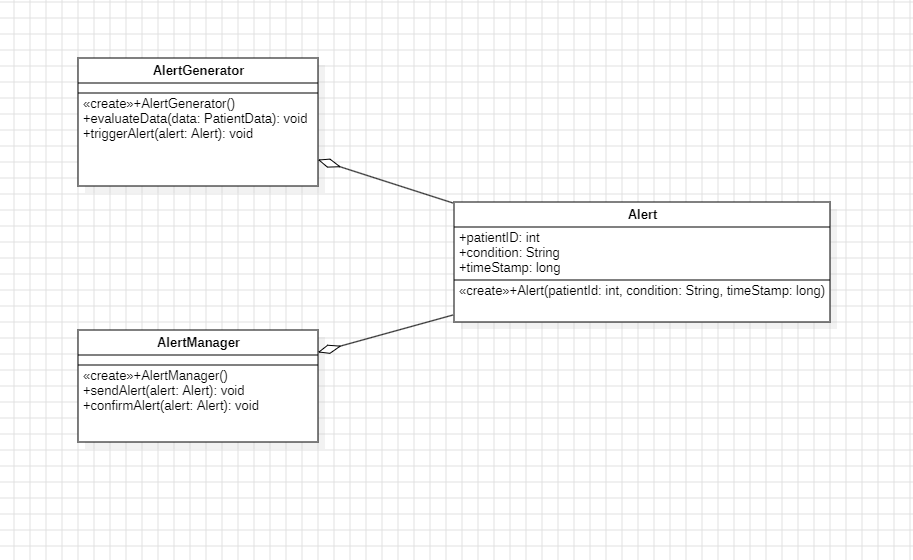
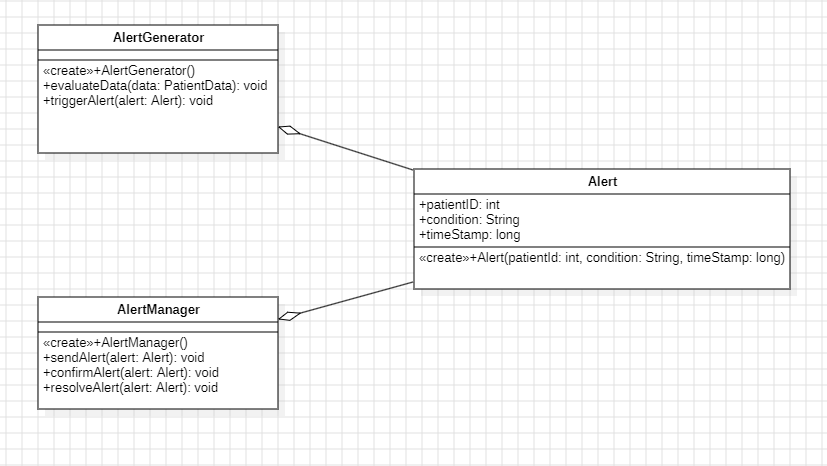
UML Class descriptions added into descriptions.md

diff --git a/uml_models/description.md b/uml_models/description.md
@@ -4,25 +4,25 @@
 
 ![Alert Class Diagram](AlertGeneratorSystem.png)
 
-placeholder
+The Alert Generator Class Diagram shows the process of monitoring patient data and creating alerts based on the data read. The process begins with the AlertGenerator class constantly receiving data from the devices being used (heart rate, blood pressure, etc.) and then evaluating if the data meets a critical threshold. Each threshold is personalized for each patient based on their past trends of data. A patient can have a critical threshold for a BPM > 130 but another can have a different threshold for BPM. If the threshold is met, the Alert Generator triggers an alert by instantiating an Alert object that has the patient's ID, condition, and time of the alert. The alert is then passed to the AlertManager class for further processing and updating. The AlertManager class sends the alert to the medical staff that need to deal with that given alert. The medical staff can then confirm the receiving of the alert, or the alert automatically resolves if the value(BPM, BP, etc.) goes back below the threshold. The AlertManager class also keeps track of the alerts that have been sent and the ones that have been resolved. 
 
 ### Data Storage Class Diagram
 
 ![Data Storage Class Diagram](DataStorageSystem.png)
 
-placeholder
+The Data Storage Class Diagram shows the process of storing patient, retrieving, and managing patient data in the system. The process starts with the putting data for a patient into a PatientData object. This object takes in a patient's ID, all their metrics like heart rate, blood pressure, respiratory rate, oxygen saturation, etc., and the time the data was read and taken. Using the PatientData object, the DataStorage class can store the data in a database. The DataStorage class can be used to delete data as well given a patient ID. The storing of the data also needs the patient ID. All the data is stored in a Hash Map for easy access with each key corresponding to a time stamp of the patient's data. To retrieve the data based on certain parameters, the DataRetriever class can be used. The DataRetriever class can retrieve data based on the patient's ID, the time the data was taken(time A to time B), the type of data(heart rate, blood pressure,etc.), and the range of data(BPM A to BPM B). There is a security system in place to ensure that only authorized personnel can access the data. If that check is not passed, the data cannot be retrieved. This ensures only those that have authorization can access this confidential data.
 
 ### Patient Identifier Class Diagram
 
 ![Patient Identifier Class Diagram](PatientIdentifierSystem.png)
 
-placeholder
+The Patient Identifier Class Diagram shows the method of identifying patients within the system and grabbing their given records. It starts with creating a PatientRecord object that stores all the patient's information like their full name, the hospital patient ID, date of birth, and their medical history. The medical history is stored in a map with each key representing the data type and value being the value of the data type. The Patient Record can be retrieved using the PatientIdentifier class. All that is needed to retrieve the record is the patient's ID. If there is a conflict in the records, the IdentityManager class is used to fix the issues. For example, if two patients have the same ID, it will be resolved within the class. The IdentityManager class can also merge different hospital records in case of the patient going to different hospitals. Once all this is done, the patient's record is updated and stored in the system. This system ensures that all patient records are up to date and accurate and that there are no conflicts or issues within the records that may affect any data.
 
 ### Data Listener Class Diagram
 
 ![Data Listener Class Diagram](DataListenerSystem.png)
 
-placeholder
+The Data Listener Class Diagram shows the process of interpretting the data from different devices into readable and understandable numbers and information. The process starts from each of the listeners pointing at the DataListener interface. Each listener uses a start and stop time as timeframes to store in certain time stamps. This keeps the data organized by time and can be grouped together easily. The TCPDataListener reads data from a port and sends it to DataParser class to interpret the data into usable information. The WebSocketDataListener reads data from a specific web URL and sends it to the DataParser class to interpret the data into usable information. The FileDataListener reads data from a file and sends it to the DataParser class to interpret the data into usable information. The DataSourceAdapter class then processes the data and stores it within a DataStorage. This process ensures that data can be read from different sources and can be interpreted in order to be stored efficiently and effectively. If data was all stored in its raw form, it can be hard to read and use due to all the conflicting formats.
 
 ### Alert State Diagram
 
